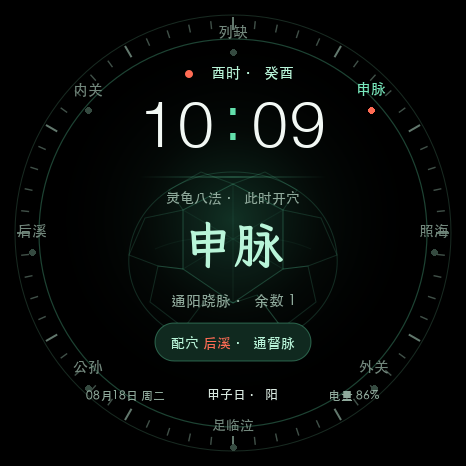
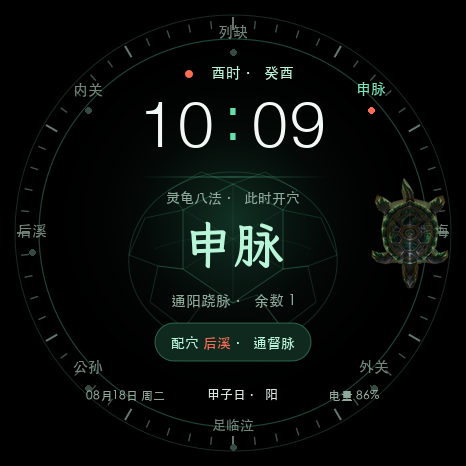
Add articulated turtle orbit animation

Changed region(s): [[0.7811, 0.3906, 0.9614, 0.6309]]

diff --git a/watchface/round/index.js b/watchface/round/index.js
@@ -2,6 +2,8 @@ let timeSensor = null
 let batterySensor = null
 let minuteListener = null
 let batteryListener = null
+let turtleTimer = null
+let turtleStep = 0
 let uiRefs = {}
 let pointRefs = []
 
@@ -90,6 +92,28 @@ function setText(widget, text, color) {
   widget.setProperty(hmUI.prop.MORE, options)
 }
 
+function updateTurtle() {
+  if (!uiRefs.turtle) return
+  const orbitSteps = 600
+  const angle = (turtleStep % orbitSteps) * Math.PI * 2 / orbitSteps
+  const radius = 177 + 3 * Math.sin(angle * 2)
+  const centerX = 233 + radius * Math.sin(angle)
+  const centerY = 233 - radius * Math.cos(angle)
+  const heading = (turtleStep % orbitSteps) * 360 / orbitSteps + 90
+  const pose = turtleStep % 8
+  uiRefs.turtle.setProperty(hmUI.prop.MORE, {
+    x: px(Math.round(centerX - 60)),
+    y: px(Math.round(centerY - 60)),
+    w: px(120),
+    h: px(120),
+    center_x: px(60),
+    center_y: px(60),
+    angle: Math.round(heading),
+    src: 'images/final/turtle/pose_' + pose + '.png',
+  })
+  turtleStep = (turtleStep + 1) % orbitSteps
+}
+
 function refresh() {
   if (!timeSensor) return
   const result = calculate(timeSensor.year, timeSensor.month, timeSensor.day, timeSensor.hour)
@@ -119,6 +143,16 @@ WatchFace({
       src: img('final/bg.png'),
       show_level: hmUI.show_level.ONLY_NORMAL,
     })
+
+    // Position, heading and articulated pose update independently at 10 fps.
+    uiRefs.turtle = hmUI.createWidget(hmUI.widget.IMG, {
+      x: px(173), y: px(-4), w: px(120), h: px(120),
+      center_x: px(60), center_y: px(60), angle: 90,
+      src: img('final/turtle/pose_0.png'),
+      show_level: hmUI.show_level.ONLY_NORMAL,
+    })
+    updateTurtle()
+    turtleTimer = timer.createTimer(100, 100, updateTurtle, {})
 
     for (let i = 0; i < POINT_LAYOUT.length; i += 1) {
       const item = POINT_LAYOUT[i]
@@ -197,5 +231,6 @@ WatchFace({
   onDestroy() {
     if (timeSensor && minuteListener) timeSensor.removeEventListener(timeSensor.event.MINUTEEND, minuteListener)
     if (batterySensor && batteryListener) batterySensor.removeEventListener(hmSensor.event.CHANGE, batteryListener)
+    if (turtleTimer) timer.stopTimer(turtleTimer)
   },
 })

diff --git a/tools/generate_turtle_animation.py b/tools/generate_turtle_animation.py
@@ -1,0 +1,133 @@
+#!/usr/bin/env python3
+"""Build compact articulated turtle poses for the GTR 4 watch face."""
+
+from __future__ import annotations
+
+import argparse
+from pathlib import Path
+
+from PIL import Image, ImageDraw, ImageEnhance, ImageFilter
+
+
+SOURCE_SIZE = (1024, 1536)
+POSE_CANVAS_SIZE = 120
+TURTLE_SIZE = (78, 112)
+
+
+def polygon_mask(points: list[tuple[int, int]]) -> Image.Image:
+    mask = Image.new("L", SOURCE_SIZE, 0)
+    ImageDraw.Draw(mask).polygon(points, fill=255)
+    return mask.filter(ImageFilter.GaussianBlur(3.0))
+
+
+def tone_source(source: Image.Image) -> Image.Image:
+    source = source.convert("RGBA")
+    if source.size != SOURCE_SIZE:
+        source = source.resize(SOURCE_SIZE, Image.Resampling.LANCZOS)
+    rgb = Image.new("RGB", SOURCE_SIZE, (0, 0, 0))
+    rgb.paste(source, mask=source.getchannel("A"))
+    rgb = ImageEnhance.Brightness(rgb).enhance(0.72)
+    rgb = ImageEnhance.Color(rgb).enhance(0.88)
+    return rgb.convert("RGBA")
+
+
+def masked_layer(source: Image.Image, mask: Image.Image) -> Image.Image:
+    layer = source.copy()
+    layer.putalpha(mask.point(lambda value: int(value * 0.82)))
+    return layer
+
+
+def build_parts(source: Image.Image) -> dict[str, Image.Image]:
+    base_mask = Image.new("L", SOURCE_SIZE, 0)
+    base_draw = ImageDraw.Draw(base_mask)
+    base_draw.polygon(
+        [(500, 10), (545, 15), (602, 146), (618, 303), (594, 410),
+         (430, 410), (405, 303), (422, 146), (468, 20)],
+        fill=255,
+    )
+    base_draw.polygon(
+        [(382, 342), (642, 342), (770, 430), (841, 596), (864, 820),
+         (830, 1037), (722, 1185), (512, 1243), (302, 1185), (194, 1037),
+         (160, 820), (183, 596), (254, 430)],
+        fill=255,
+    )
+    base_mask = base_mask.filter(ImageFilter.GaussianBlur(3.0))
+
+    masks = {
+        "base": base_mask,
+        "front_left": polygon_mask(
+            [(438, 365), (302, 345), (209, 337), (104, 366), (43, 434),
+             (45, 532), (129, 493), (235, 505), (350, 526), (458, 470)]
+        ),
+        "front_right": polygon_mask(
+            [(586, 365), (722, 345), (815, 337), (920, 366), (981, 434),
+             (979, 532), (895, 493), (789, 505), (674, 526), (566, 470)]
+        ),
+        "rear_left": polygon_mask(
+            [(395, 1000), (285, 992), (215, 1004), (126, 1071), (78, 1175),
+             (102, 1278), (191, 1246), (271, 1184), (362, 1108), (420, 1035)]
+        ),
+        "rear_right": polygon_mask(
+            [(629, 1000), (739, 992), (809, 1004), (898, 1071), (946, 1175),
+             (922, 1278), (833, 1246), (753, 1184), (662, 1108), (604, 1035)]
+        ),
+        "tail": polygon_mask(
+            [(438, 1145), (586, 1145), (620, 1320), (590, 1512),
+             (534, 1437), (472, 1321)]
+        ),
+    }
+    return {name: masked_layer(source, mask) for name, mask in masks.items()}
+
+
+def rotate_part(layer: Image.Image, degrees: float, pivot: tuple[int, int]) -> Image.Image:
+    return layer.rotate(
+        degrees,
+        resample=Image.Resampling.BICUBIC,
+        center=pivot,
+        expand=False,
+    )
+
+
+def make_pose(parts: dict[str, Image.Image], paddle_angle: float) -> Image.Image:
+    pose = Image.new("RGBA", SOURCE_SIZE, (0, 0, 0, 0))
+    moving_parts = [
+        ("tail", paddle_angle * 1.15, (512, 1160)),
+        ("rear_left", -paddle_angle * 0.75, (330, 1025)),
+        ("rear_right", paddle_angle * 0.75, (694, 1025)),
+        ("front_left", paddle_angle, (385, 430)),
+        ("front_right", -paddle_angle, (639, 430)),
+    ]
+    for name, degrees, pivot in moving_parts:
+        pose.alpha_composite(rotate_part(parts[name], degrees, pivot))
+    pose.alpha_composite(parts["base"])
+
+    crop = pose.crop((40, 4, 984, 1520)).resize(TURTLE_SIZE, Image.Resampling.LANCZOS)
+    canvas = Image.new("RGBA", (POSE_CANVAS_SIZE, POSE_CANVAS_SIZE), (0, 0, 0, 0))
+    canvas.alpha_composite(
+        crop,
+        ((POSE_CANVAS_SIZE - crop.width) // 2, (POSE_CANVAS_SIZE - crop.height) // 2),
+    )
+    return canvas
+
+
+def make_poses(source: Image.Image, output_dir: Path) -> None:
+    output_dir.mkdir(parents=True, exist_ok=True)
+    for old_frame in output_dir.glob("*.png"):
+        old_frame.unlink()
+
+    parts = build_parts(tone_source(source))
+    paddle_angles = [0, 9, 16, 9, 0, -9, -16, -9]
+    for index, paddle_angle in enumerate(paddle_angles):
+        make_pose(parts, paddle_angle).save(output_dir / f"pose_{index}.png", optimize=True)
+
+
+def main() -> None:
+    parser = argparse.ArgumentParser()
+    parser.add_argument("source", type=Path)
+    parser.add_argument("output_dir", type=Path)
+    args = parser.parse_args()
+    make_poses(Image.open(args.source), args.output_dir)
+
+
+if __name__ == "__main__":
+    main()

diff --git a/README.md b/README.md
@@ -17,6 +17,7 @@
 - 灵龟八法主穴、配穴及余数计算
 - 八穴环形定位与当前穴位高亮
 - 低对比度玄甲龟背纹背景
+- 写实玄甲灵龟每 60 秒环游一周，四肢划水并摆动尾巴
 - 60 格环形分钟刻度与五分钟主刻度
 - 日期、日干支及电量显示
 - Amazfit GTR 4 真机适配
@@ -43,5 +44,5 @@ zeus preview
 ## 当前发布信息
 
 - Zepp App ID：`1123978`
-- 表盘版本：`1.6.2`
+- 表盘版本：`1.8.0`
 - 目标设备：Amazfit GTR 4
